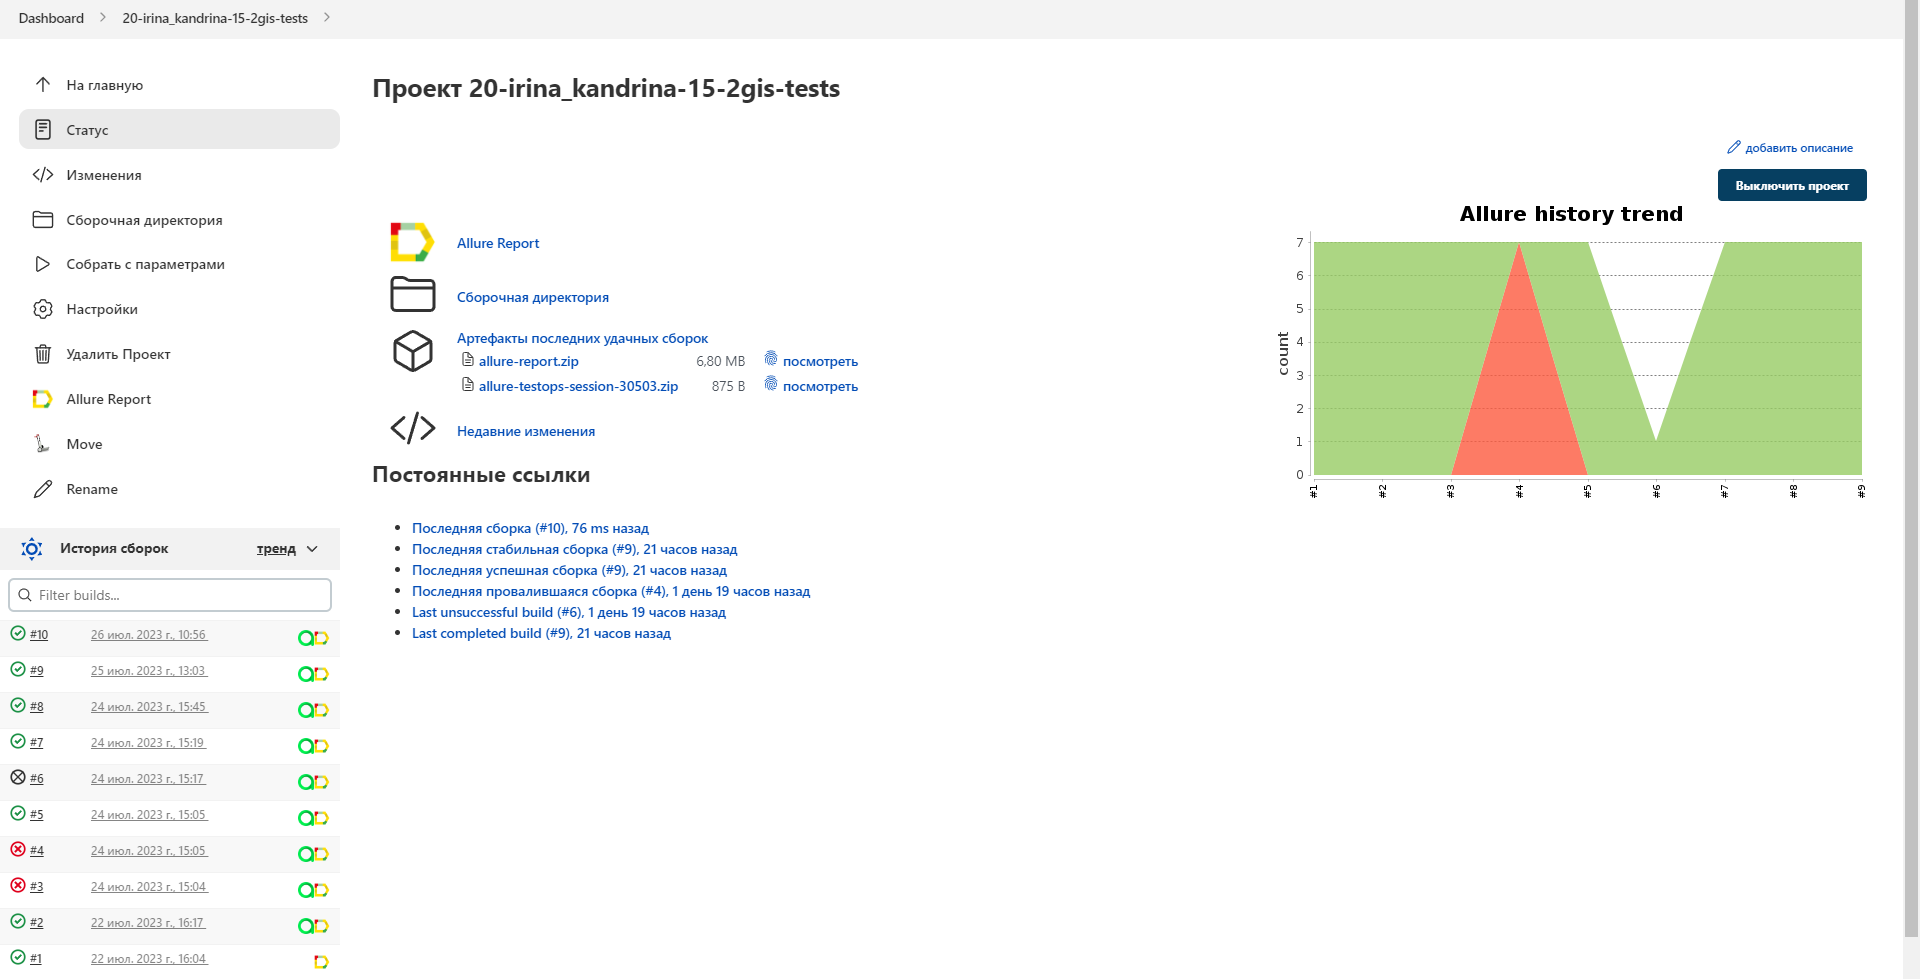
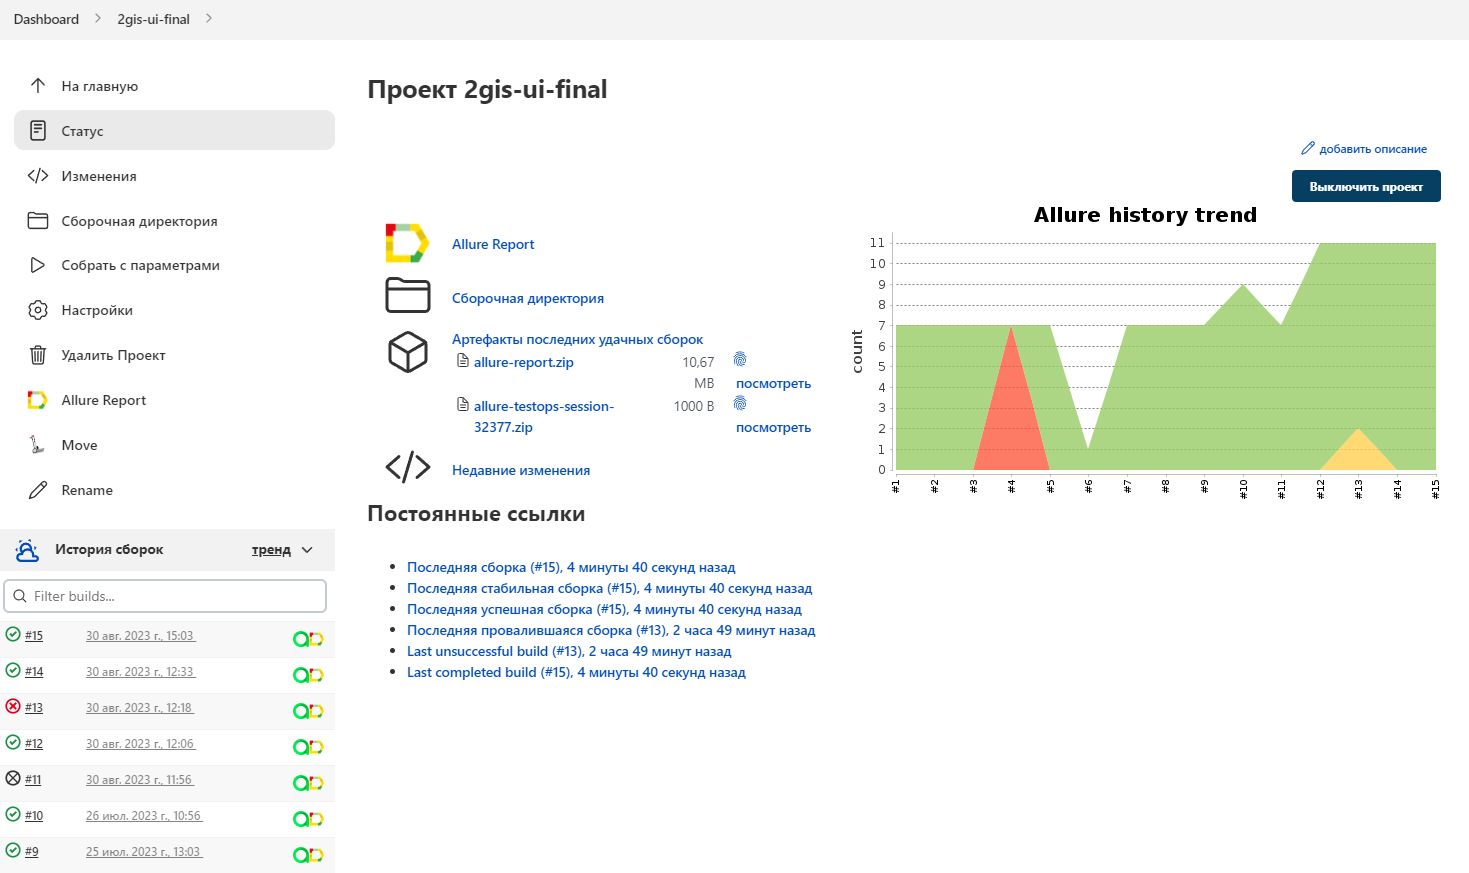
new screenshots

diff --git a/README.md b/README.md
@@ -70,10 +70,10 @@ ____
 
 ____
 <a id="jenkins"></a>
-## <img alt="Jenkins" height="25" src="images/logo/Jenkins.svg" width="25"/></a><a name="Сборка"></a>Сборка в [Jenkins](https://jenkins.autotests.cloud/job/20-irina_kandrina-15-2gis-tests/)</a>
+## <img alt="Jenkins" height="25" src="images/logo/Jenkins.svg" width="25"/></a><a name="Сборка"></a>Сборка в [Jenkins](https://jenkins.autotests.cloud/job/2gis-ui-final/)</a>
 ____
 <p align="center">  
-<a href="https://jenkins.autotests.cloud/job/20-irina_kandrina-15-2gis-tests/"><img src="images/screenshot/jenkinsBuild.png" alt="Jenkins" width="850"/></a>  
+<a href="https://jenkins.autotests.cloud/job/2gis-ui-final/"><img src="images/screenshot/jenkinsBuild.png" alt="Jenkins" width="850"/></a>  
 </p>
 
 <a id="console"></a>
@@ -103,7 +103,7 @@ ${TASK}
 - <code>REMOTE_URL</code> – адрес удаленного сервера, на котором будут запускаться тесты.
 ___
 <a id="allure"></a>
-## <img alt="Allure" height="25" src="images/logo/Allure.svg" width="25"/></a> <a name="Allure"></a>Allure [отчет](https://jenkins.autotests.cloud/job/20-irina_kandrina-15-2gis-tests/10/allure/)</a>
+## <img alt="Allure" height="25" src="images/logo/Allure.svg" width="25"/></a> <a name="Allure"></a>Allure [отчет](https://jenkins.autotests.cloud/job/2gis-ui-final/15/allure/![telegram.png](..%2F..%2FDownloads%2Fimages%2Fscreenshot%2Ftelegram.png))</a>
 ___
 
 ### *Основная страница отчёта*
